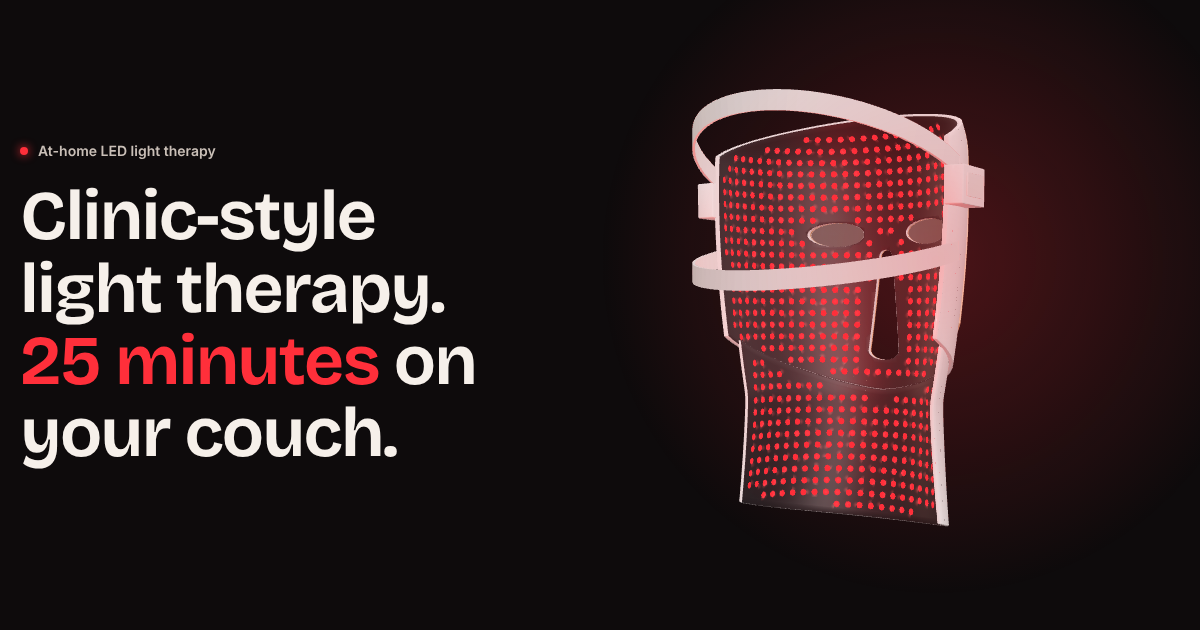
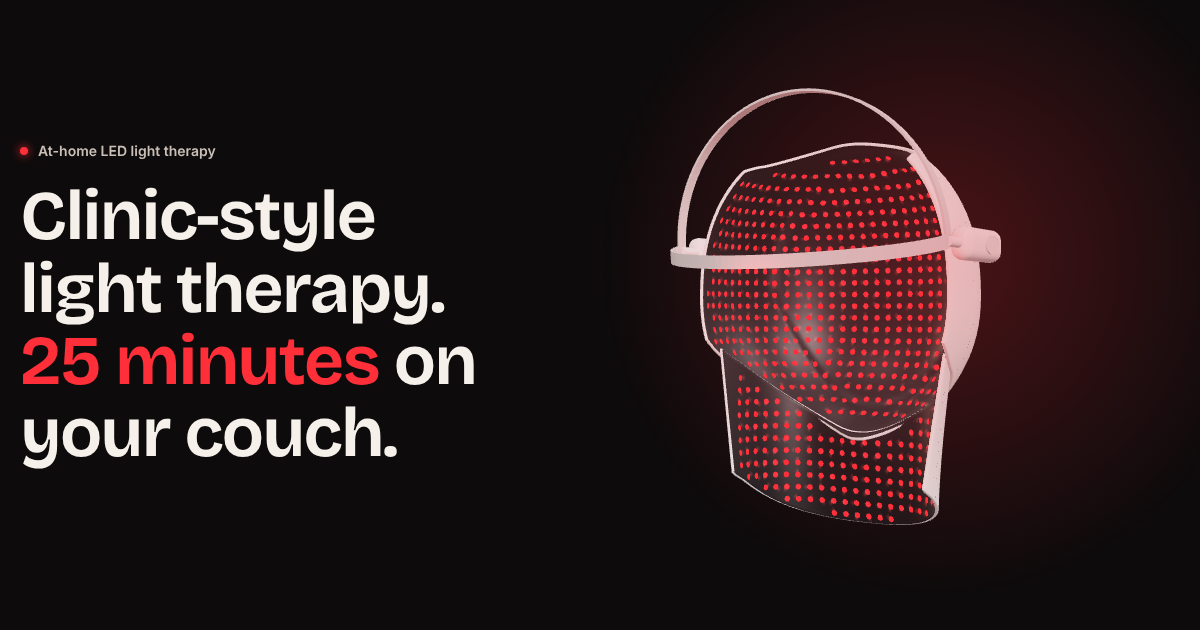
Keep the LED light inside the mask and refresh og.png for the new model
Shorter-range inner point light so the red LEDs don't tint the outer shell
and visor. og.png re-rendered with the HALO PRO model.

Claude-Session: https://claude.ai/code/session_01AbXR8wNWxcJYvL4SkBTwiD

Changed region(s): [[0.555, 0.1206, 0.8325, 0.8444]]

diff --git a/src/mask.js b/src/mask.js
@@ -244,7 +244,7 @@ function init() {
   rim.position.set(-4, 1, -3);
   scene.add(rim);
   // the LEDs sit on the face side, so their light comes from inside the mask
-  const bounce = new PointLight(0xff3030, 5, 4, 1.4);
+  const bounce = new PointLight(0xff3030, 4, 1.7, 1.6);
   bounce.position.set(0, 0, -0.9);
   mask.add(bounce);
 
